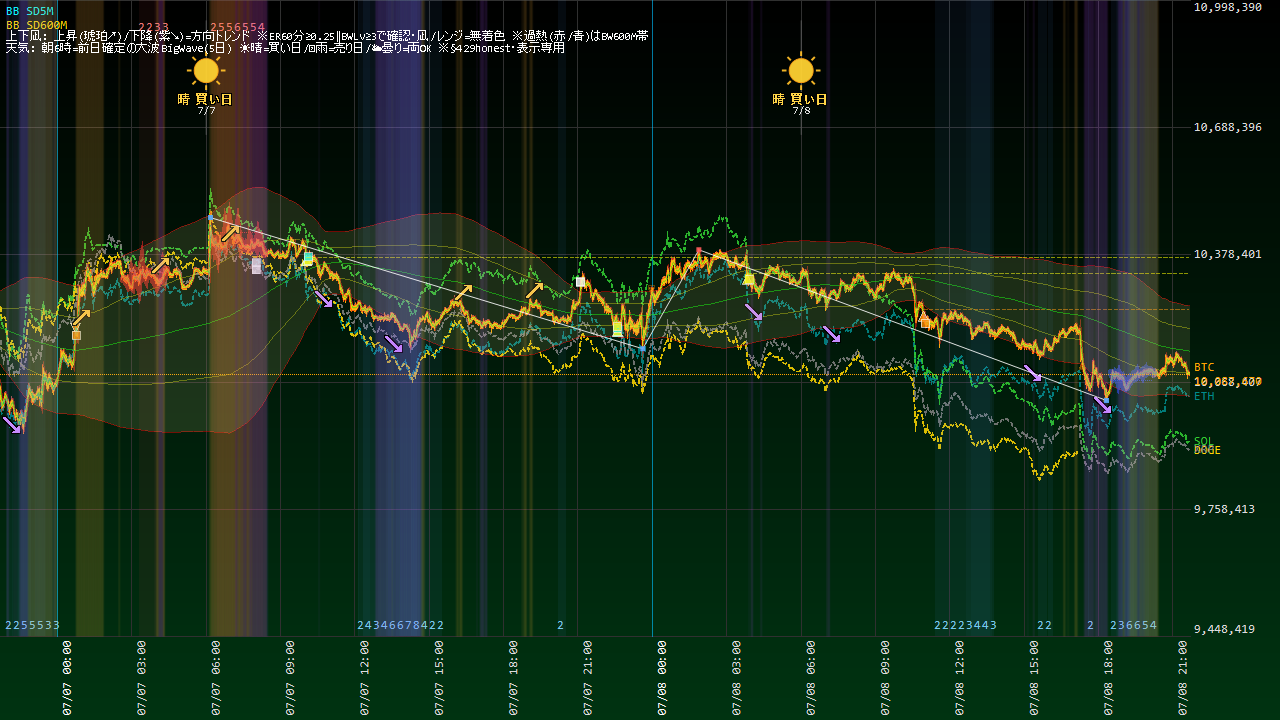
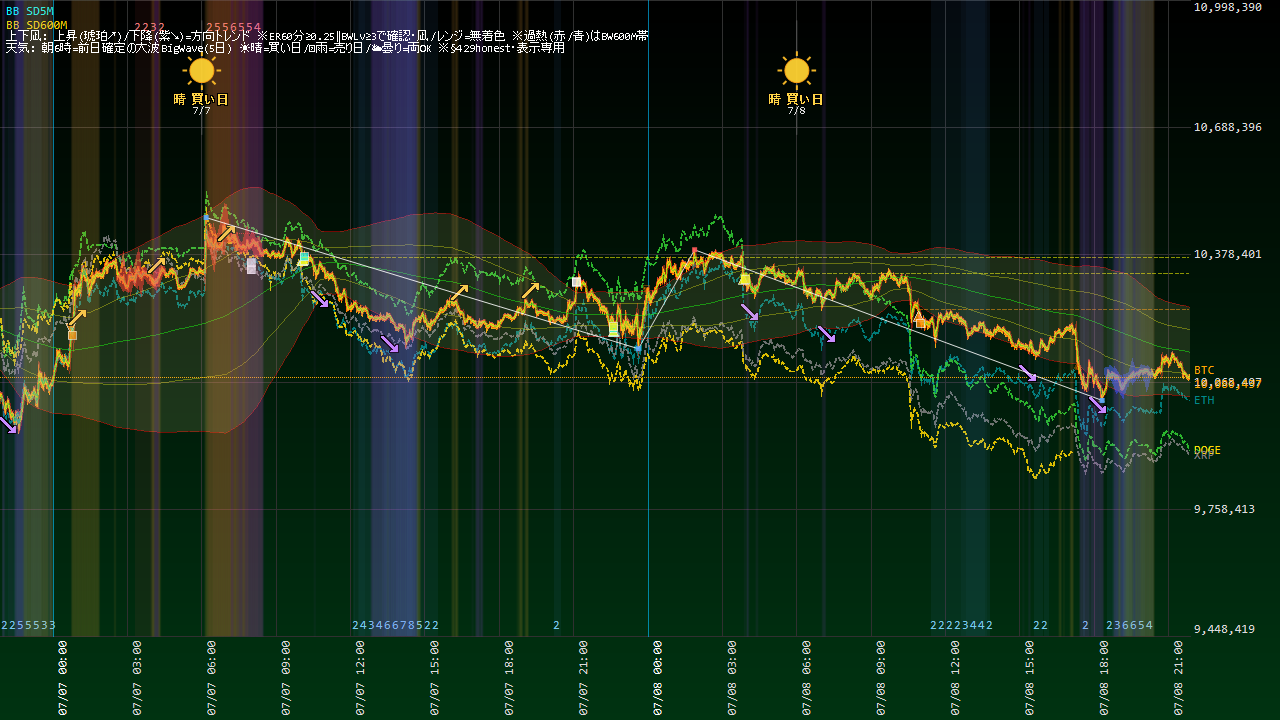
Coin100S 運用状況更新 07-08 21:53

diff --git a/coin100s-795hc4jfv8/index.html b/coin100s-795hc4jfv8/index.html
@@ -14,7 +14,7 @@ a{color:#60a5fa;text-decoration:none} a:hover{text-decoration:underline}
 .meta{color:#94a3b8;font-size:13px}</style>
 <script>setTimeout(function(){location.replace(location.pathname+"?t="+Date.now());},300000);</script></head><body>
 <h1>Coin100S ダッシュボード</h1>
-<p class="meta">スナップショット: 2026-07-08 21:46:56(自動リロード・最新化)</p>
+<p class="meta">スナップショット: 2026-07-08 21:52:55(自動リロード・最新化)</p>
 <div class="cards">
 <div class="card">建玉数<div class="v">0</div></div>
 <div class="card">本日損益<div class="v pos">+276円</div></div>
@@ -25,5 +25,5 @@ a{color:#60a5fa;text-decoration:none} a:hover{text-decoration:underline}
 <p><a href="status.html"><b>▶ 運用状況の詳細(チャート・本日の取引・レジーム)</b></a></p>
 <h2>日報一覧</h2>
 <table><tr><th>取引日</th><th>実現損益</th><th>総括</th></tr><tr><td><a href='reports/20260707_Coin100S日報.html'>2026-07-07</a></td><td class="pos">+0円</td><td class='meta'>実取引: 新規8件/決済6件、実現損益 +0円。シグナル却下4件（最多: SD120M_5M／トレンド方向ゲート(N分傾き上と不一致=逆張り方向のfade禁止)）。⚠警告/エラー 258件（要確認）。</td></tr><tr><td><a href='reports/20260706_Coin100S日報.html'>2026-07-06</a></td><td class="pos">+0円</td><td class='meta'>実取引: 新規9件/決済6件、実現損益 +0円。シグナル却下9件（最多: SD120M_5M／トレンド方向ゲート(N分傾き上と不一致=逆張り方向のfade禁止)）。⚠警告/エラー 150件（要確認）。</td></tr><tr><td><a href='reports/20260705_Coin100S日報.html'>2026-07-05</a></td><td class="pos">+0円</td><td class='meta'>実取引: 新規8件/決済3件、実現損益 +0円。⚠警告/エラー 2件（要確認）。</td></tr><tr><td><a href='reports/20260704_Coin100S日報.html'>2026-07-04</a></td><td class="pos">+0円</td><td class='meta'>実取引: 新規1件/決済2件、実現損益 +0円。⚠警告/エラー 2件（要確認）。</td></tr><tr><td><a href='reports/20260703_Coin100S日報.html'>2026-07-03</a></td><td class="pos">+0円</td><td class='meta'>実取引: 新規5件/決済4件、実現損益 +0円。⚠警告/エラー 15件（要確認）。</td></tr><tr><td><a href='reports/20260702_Coin100S日報.html'>2026-07-02</a></td><td class="pos">+0円</td><td class='meta'>実取引: 新規7件/決済5件、実現損益 +0円。シグナル却下17件（最多: SD120M_5M／トレンド方向ゲート(N分傾き上と不一致=逆張り方向のfade禁止)）。⚠警告/エラー 26件（要確認）。</td></tr><tr><td><a href='reports/20260701_Coin100S日報.html'>2026-07-01</a></td><td class="pos">+0円</td><td class='meta'>実取引: 新規14件/決済8件、実現損益 +0円。シグナル却下14件（最多: SD120M_5M／ボラ軸ゲート(SDN%&amp;gt;N%=高ボラ/荒れレンジ)）。⚠警告/エラー 2件（要確認）。</td></tr><tr><td><a href='reports/20260630_Coin100S日報.html'>2026-06-30</a></td><td class="pos">+0円</td><td class='meta'>実取引: 新規0件/決済1件、実現損益 +0円。シグナル却下29件（最多: 微5M／当日枠N）。警告/孤児/エラーなし＝健全。</td></tr></table>
-<hr><p class="meta">更新: 2026-07-08 21:47:10 / 自動生成: tools/web_publish.py(§580)</p>
+<hr><p class="meta">更新: 2026-07-08 21:53:08 / 自動生成: tools/web_publish.py(§580)</p>
 </body></html>

diff --git a/coin100s-795hc4jfv8/status.html b/coin100s-795hc4jfv8/status.html
@@ -14,14 +14,14 @@ a{color:#60a5fa;text-decoration:none} a:hover{text-decoration:underline}
 .meta{color:#94a3b8;font-size:13px}</style>
 <script>setTimeout(function(){location.replace(location.pathname+"?t="+Date.now());},300000);</script></head><body>
 <h1>Coin100S 運用状況</h1>
-<p class="meta">スナップショット: 2026-07-08 21:46:56 / ページ生成: 2026-07-08 21:47:10(自動リロード・最新化) / <a href="index.html">目次へ</a></p>
+<p class="meta">スナップショット: 2026-07-08 21:52:55 / ページ生成: 2026-07-08 21:53:08(自動リロード・最新化) / <a href="index.html">目次へ</a></p>
 <div class="cards">
 <div class="card">建玉数<div class="v">0</div></div>
 <div class="card">本日損益<div class="v pos">+276円</div></div>
 <div class="card">評価損益<div class="v ">?</div></div>
 </div>
 <h2>取引チャート(直近24h)</h2>
-<img src="status_chart.png?t=2147" alt="chart">
+<img src="status_chart.png?t=2153" alt="chart">
 <h2>建玉一覧</h2>
 <table><tr><th>銘柄</th><th>側</th><th>数量</th><th>建値</th><th>含損益</th><th>レッグ</th></tr><tr><td colspan=6>建玉なし(flat)</td></tr></table>
 <h2>実現決済履歴(直近15件・OrderId単位)</h2>
@@ -29,6 +29,6 @@ a{color:#60a5fa;text-decoration:none} a:hover{text-decoration:underline}
 <h2>本取引日の実取引(6:00起点)</h2>
 <table><tr><th>時刻</th><th>種別</th><th>側</th><th>銘柄</th><th>数量</th><th>指値</th></tr><tr><td>06:08:04</td><td>決済</td><td>BUY</td><td>LTC_JPY</td><td>1</td><td>7,165</td></tr><tr><td>06:38:03</td><td>決済</td><td>BUY</td><td>BCH_JPY</td><td>0.1</td><td>39,201</td></tr><tr><td>06:38:04</td><td>決済</td><td>BUY</td><td>BCH_JPY</td><td>0.1</td><td>39,201</td></tr><tr><td>06:38:05</td><td>決済</td><td>BUY</td><td>BCH_JPY</td><td>0.1</td><td>39,201</td></tr><tr><td>06:38:06</td><td>決済</td><td>BUY</td><td>BCH_JPY</td><td>0.1</td><td>39,201</td></tr><tr><td>10:56:33</td><td>新規</td><td>BUY</td><td>BTC_JPY</td><td>0.001</td><td>10,234,771</td></tr><tr><td>11:01:33</td><td>決済</td><td>SELL</td><td>BTC_JPY</td><td>0.001</td><td>10,180,942</td></tr><tr><td>11:01:34</td><td>決済</td><td>SELL</td><td>BTC_JPY</td><td>0.001</td><td>10,180,942</td></tr></table>
 <h2>現在レジーム(3軸・§570c)</h2>
-<ul><li>アルト対BTC 5日: <b>-135bps</b>(アルト劣後=RELVAL順風)</li><li>BTC ER240m: <b>0.035</b>(閾値0.25→レンジ(fade順風/BWTRD逆風))</li><li>BTC実現ボラ240m: <b>5.41</b> bps/分</li></ul>
+<ul><li>アルト対BTC 5日: <b>-135bps</b>(アルト劣後=RELVAL順風)</li><li>BTC ER240m: <b>0.016</b>(閾値0.25→レンジ(fade順風/BWTRD逆風))</li><li>BTC実現ボラ240m: <b>5.28</b> bps/分</li></ul>
 <hr><p class="meta">自動生成: tools/web_publish.py(§580・読み取り専用)。売買判断はアプリ本体。</p>
 </body></html>
